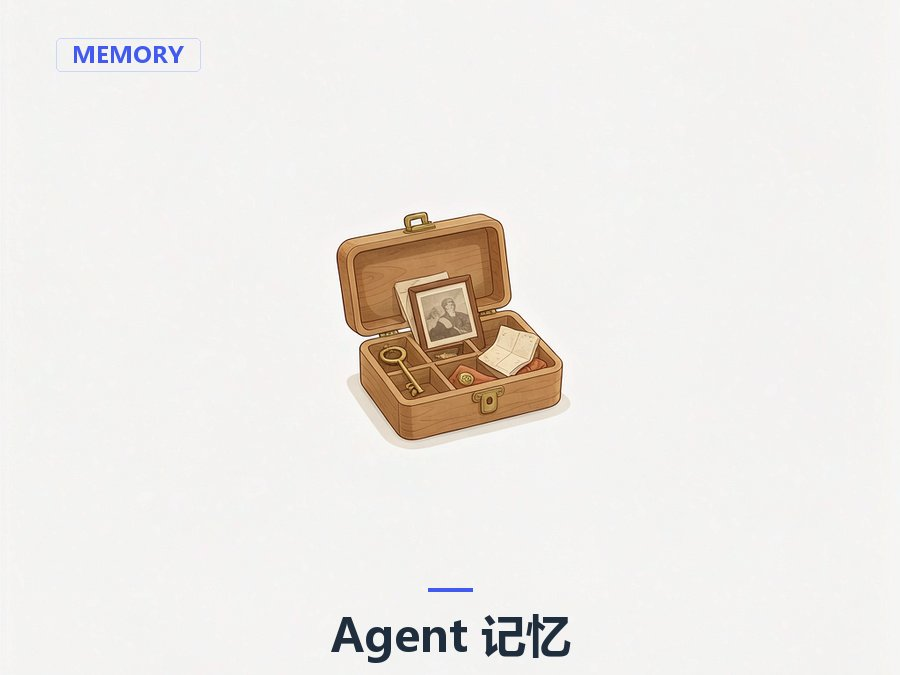
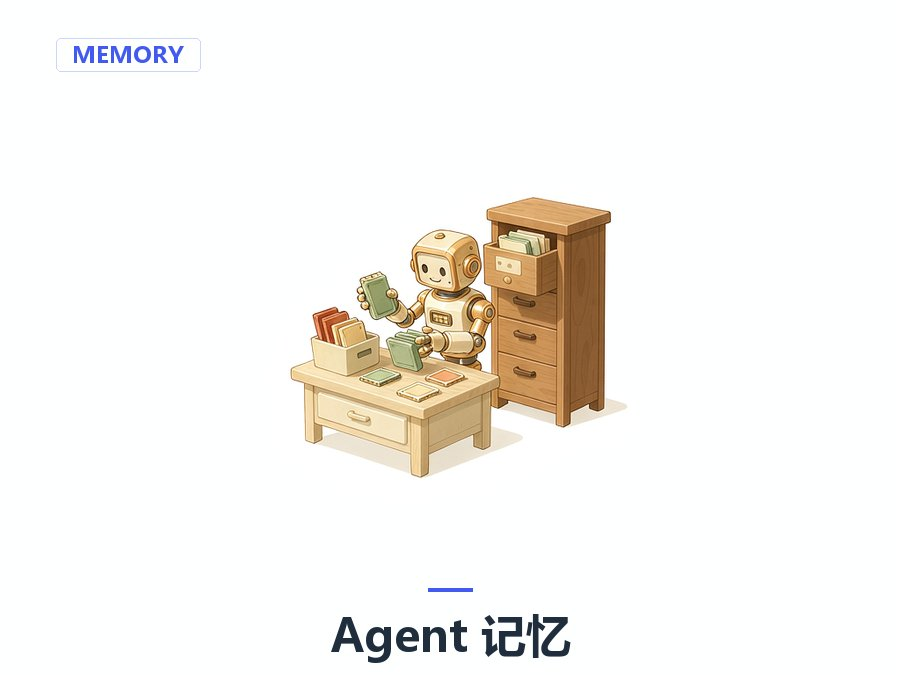
cover: agent-memory-components 封面改为机器人归档记忆卡片，贴合主题

Changed region(s): [[0.3111, 0.28, 0.6844, 0.7156]]

diff --git a/tools/magpie-covers.py b/tools/magpie-covers.py
@@ -104,7 +104,7 @@ PROMPTS = {
     'super-agent-designs':    'minimal composition, a small subject centered with huge empty space on all four sides, nothing near the frame edges, a small self-driving rover with sensors on a little track, autonomous system concept, warm metal and wood tones, on a pure white background, bright white, ' + STYLE,
     'agents-going-async':    'minimal composition, a small subject centered with huge empty space on all four sides, nothing near the frame edges, a small control desk with one big screen and one small worker device side by side connected by a cable, coordination concept, warm wood desk tones, on a pure white background, bright white, ' + STYLE,
     'design-patterns-creational':    'minimal composition, a small subject centered with huge empty space on all four sides, nothing near the frame edges, a small factory machine with a conveyor belt carrying small products off the end, creation concept, warm metal and wood tones, on a pure white background, bright white, ' + STYLE,
-    'agent-memory-components':    'minimal composition, a small subject centered with huge empty space on all four sides, nothing near the frame edges, a small wooden memory box with several open compartments holding a few warm-colored keepsakes (an old photo, a small key, a folded letter), memory concept, warm wood tones, on a pure white background, bright white, ' + STYLE,
+    'agent-memory-components':    'minimal composition, a small subject centered with huge empty space on all four sides, nothing near the frame edges, a small cute robot at a small desk sorting a stack of memory cards into a wooden filing cabinet, agent memory organizing concept, warm wood cabinet tones and warm metal robot tones, on a pure white background, bright white, ' + STYLE,
     'design-patterns-behavioral':    'minimal composition, a small subject centered with huge empty space on all four sides, nothing near the frame edges, a row of small brown birds perched side by side on a short wooden branch, coordinated group concept, warm wood branch tones, on a pure white background, bright white, ' + STYLE,
 }
 
